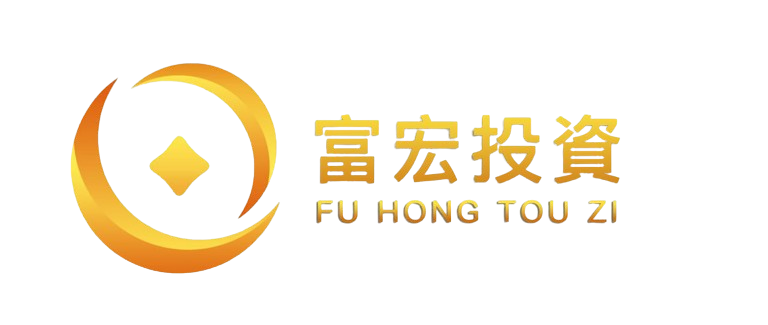
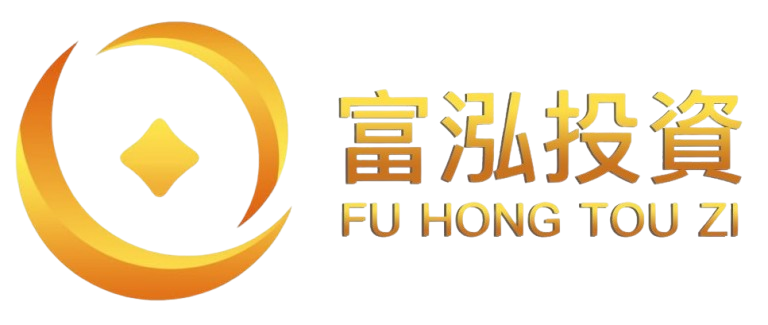
init

Changed region(s): [[0.0, 0.0615, 0.375, 0.9231], [0.4062, 0.2769, 0.9688, 0.5846], [0.4062, 0.6154, 0.9688, 0.7385]]

diff --git a/index.html b/index.html
@@ -19,14 +19,14 @@
         window.darlaOnready = function () {
         };
     </script>
-    <title>富宏投資股份有限公司：引領台股新風潮，成就優質投資顧問首選品牌</title>
+    <title>富泓投資股份有限公司：引領台股新風潮，成就優質投資顧問首選品牌</title>
     <meta http-equiv="x-dns-prefetch-control" content="on">
     <meta http-equiv="X-UA-Compatible" content="chrome=1">
     <meta http-equiv="content-type" content="text/html; charset=utf-8" />
     <meta name="oath:guce:consent-host" content="guce.yahoo.com">
     <meta name="news_keywords" content="經濟">
-    <meta name="twitter:title" content="富宏投資股份有限公司：引領台股新風潮，成就優質投資顧問首選品牌">
-    <meta property="og:title" content="富宏投資股份有限公司：引領台股新風潮，成就優質投資顧問首選品牌">
+    <meta name="twitter:title" content="富泓投資股份有限公司：引領台股新風潮，成就優質投資顧問首選品牌">
+    <meta property="og:title" content="富泓投資股份有限公司：引領台股新風潮，成就優質投資顧問首選品牌">
     <meta name="google-site-verification" content="7A-4FUQkzNiQ5jc9oMv3Rno9l_lwzc0iQWOWn-nkZZ0" />
     <!--<meta property="og:url"
           content="https://tw.news.yahoo.com/%E6%94%9C%E6%89%8B%E4%B8%BB%E5%8A%9B-%E5%A4%A7%E6%88%B6%E6%94%AF%E6%8C%81%E5%85%AC%E7%9B%8A-%E6%9A%90%E9%81%94%E6%8E%A8%E7%AC%AC%E5%9B%9B%E6%9C%9F-%E7%BF%BB%E8%BA%AB%E8%A8%88%E5%8A%83-022159496.html">-->
@@ -36,11 +36,11 @@
     <meta property="al:ios:url"
           content="ysuper://story/攜手主力-大戶支持公益-暐達推第四期-翻身計劃-022159496/1717d477-8cac-3de1-8b8a-98f731fcae49">-->
     <meta name="twitter:description"
-          content="在美麗的寶島台灣，金融市場波瀾壯闊，眾多投資機構競相角逐。而在這片充滿機遇與挑戰的舞台上，富宏投資股份有限公司宛如一顆璀璨的明星，以其卓越的實力和前瞻性的眼光，為投資者照亮前行的道路，成為優質投資顧問的首選品牌。">
+          content="在美麗的寶島台灣，金融市場波瀾壯闊，眾多投資機構競相角逐。而在這片充滿機遇與挑戰的舞台上，富泓投資股份有限公司宛如一顆璀璨的明星，以其卓越的實力和前瞻性的眼光，為投資者照亮前行的道路，成為優質投資顧問的首選品牌。">
     <meta name="description"
-          content="在美麗的寶島台灣，金融市場波瀾壯闊，眾多投資機構競相角逐。而在這片充滿機遇與挑戰的舞台上，富宏投資股份有限公司宛如一顆璀璨的明星，以其卓越的實力和前瞻性的眼光，為投資者照亮前行的道路，成為優質投資顧問的首選品牌。">
+          content="在美麗的寶島台灣，金融市場波瀾壯闊，眾多投資機構競相角逐。而在這片充滿機遇與挑戰的舞台上，富泓投資股份有限公司宛如一顆璀璨的明星，以其卓越的實力和前瞻性的眼光，為投資者照亮前行的道路，成為優質投資顧問的首選品牌。">
     <meta property="og:description"
-          content="在美麗的寶島台灣，金融市場波瀾壯闊，眾多投資機構競相角逐。而在這片充滿機遇與挑戰的舞台上，富宏投資股份有限公司宛如一顆璀璨的明星，以其卓越的實力和前瞻性的眼光，為投資者照亮前行的道路，成為優質投資顧問的首選品牌。">
+          content="在美麗的寶島台灣，金融市場波瀾壯闊，眾多投資機構競相角逐。而在這片充滿機遇與挑戰的舞台上，富泓投資股份有限公司宛如一顆璀璨的明星，以其卓越的實力和前瞻性的眼光，為投資者照亮前行的道路，成為優質投資顧問的首選品牌。">
     <meta property="al:android:app_name" content="Yahoo奇摩">
     <meta property="al:android:package" content="com.yahoo.mobile.client.android.superapp">
     <meta property="al:ios:app_name" content="Yahoo奇摩">
@@ -1406,7 +1406,7 @@
                 "replyId": "",
                 "siteAttribute": "wiki_topics=\"经济;金融分析师;经济增长;投資者\" rs=\"lmsid:a0V0W00000HMWQvUAP;revsp:scoop_tw_461;lpstaid:1717d477-8cac-3de1-8b8a-98f731fcae49;lu:0;pct:story\"",
                 "tags": "經濟",
-                "title": "富宏投資股份有限公司：引領台股新風潮，成就優質投資顧問首選品牌",
+                "title": "富泓投資股份有限公司：引領台股新風潮，成就優質投資顧問首選品牌",
                 "url": "https://tw.news.yahoo.com/%E6%94%9C%E6%89%8B%E4%B8%BB%E5%8A%9B-%E5%A4%A7%E6%88%B6%E6%94%AF%E6%8C%81%E5%85%AC%E7%9B%8A-%E6%9A%90%E9%81%94%E6%8E%A8%E7%AC%AC%E5%9B%9B%E6%9C%9F-%E7%BF%BB%E8%BA%AB%E8%A8%88%E5%8A%83-022159496.html",
                 "uuid": "1717d477-8cac-3de1-8b8a-98f731fcae49",
                 "xhrPathPrefix": "/nel_ms/_rcv/remote"
@@ -19028,13 +19028,13 @@
                                                 "@context": "http://schema.org",
                                                 "@type": "NewsArticle",
                                                 "mainEntityOfPage": "https://tw.news.yahoo.com/%E6%94%9C%E6%89%8B%E4%B8%BB%E5%8A%9B-%E5%A4%A7%E6%88%B6%E6%94%AF%E6%8C%81%E5%85%AC%E7%9B%8A-%E6%9A%90%E9%81%94%E6%8E%A8%E7%AC%AC%E5%9B%9B%E6%9C%9F-%E7%BF%BB%E8%BA%AB%E8%A8%88%E5%8A%83-022159496.html",
-                                                "headline": "富宏投資股份有限公司：引領台股新風潮，成就優質投資顧問首選品牌",
+                                                "headline": "富泓投資股份有限公司：引領台股新風潮，成就優質投資顧問首選品牌",
                                                 "datePublished": "2024-05-28T02:21:59.000Z",
                                                 "dateModified": "2024-05-28T02:21:59.000Z",
                                                 "keywords": [
                                                     "經濟"
                                                 ],
-                                                "description": "在美麗的寶島台灣，金融市場波瀾壯闊，眾多投資機構競相角逐。而在這片充滿機遇與挑戰的舞台上，富宏投資股份有限公司宛如一顆璀璨的明星，以其卓越的實力和前瞻性的眼光，為投資者照亮前行的道路，成為優質投資顧問的首選品牌。",
+                                                "description": "在美麗的寶島台灣，金融市場波瀾壯闊，眾多投資機構競相角逐。而在這片充滿機遇與挑戰的舞台上，富泓投資股份有限公司宛如一顆璀璨的明星，以其卓越的實力和前瞻性的眼光，為投資者照亮前行的道路，成為優質投資顧問的首選品牌。",
                                                 "publisher": {
                                                     "@type": "Organization",
                                                     "name": "Yahoo奇摩新聞",
@@ -19109,7 +19109,7 @@
                                                 </div>
                                             </div><!--F/-->
                                             <div class="caas-title-wrapper"><h1 id="caas-lead-header-undefined"
-                                                                                data-test-locator="headline">富宏投資股份有限公司：引領台股新風潮，成就優質投資顧問首選品牌</h1></div>
+                                                                                data-test-locator="headline">富泓投資股份有限公司：引領台股新風潮，成就優質投資顧問首選品牌</h1></div>
                                         </header>
                                         <script class="caas-timezone-config" type="application/ld+json">
                                             {
@@ -19260,7 +19260,7 @@
                                                                     </div>
                                                                 </div>
                                                                 <div class="caas-body"><p>【記者郭嘉／綜合報導】
-                                                                    在美麗的寶島台灣，金融市場波瀾壯闊，眾多投資機構競相角逐。而在這片充滿機遇與挑戰的舞台上，富宏投資股份有限公司宛如一顆璀璨的明星，以其卓越的實力和前瞻性的眼光，為投資者照亮前行的道路，成為優質投資顧問的首選品牌。
+                                                                    在美麗的寶島台灣，金融市場波瀾壯闊，眾多投資機構競相角逐。而在這片充滿機遇與挑戰的舞台上，富泓投資股份有限公司宛如一顆璀璨的明星，以其卓越的實力和前瞻性的眼光，為投資者照亮前行的道路，成為優質投資顧問的首選品牌。
                                                                 </p>
 
                                                                     <figure class="caas-figure">
@@ -19289,45 +19289,45 @@
                                                                     </figure>
 
                                                                     <p>一、專業團隊，鑄就輝煌基石</p>
-                                                                    <p>富宏投資深知，在金融領域，專業的團隊是成功的關鍵。公司匯聚了一批來自金融、經濟、財務等各個領域的精英人才，他們擁有豐富的行業經驗和深厚的專業知識。</p>
+                                                                    <p>富泓投資深知，在金融領域，專業的團隊是成功的關鍵。公司匯聚了一批來自金融、經濟、財務等各個領域的精英人才，他們擁有豐富的行業經驗和深厚的專業知識。</p>
                                                                     <p></p>
                                                                     <p>這支團隊中的每一位成員都經過嚴格的篩選和專業培訓，具備敏銳的市場洞察力、精准的分析能力和果斷的決策能力。他們時刻關注全球金融市場動態，深入研究台股市場的趨勢和變化，為投資者提供及時、準確的投資建議。</p>
                                                                     <p></p>
                                                                     <p>在日常工作中，團隊成員密切合作，充分發揮各自的專長。分析師們運用先進的金融分析工具和方法，對台股上市公司進行深入研究，挖掘具有投資價值的優質企業。投資顧問們則根據投資者的風險偏好和財務狀況，為其量身定制個性化的投資方案。交易員們以嫻熟的操作技巧和嚴謹的風險控制，確保投資交易的順利進行。</p>
                                                                     <p></p>
-                                                                    <p>正是這支專業、高效、團結的團隊，為富宏投資股份有限公司鑄就了堅實的輝煌基石，使其在激烈的市場競爭中立於不敗之地。</p>
+                                                                    <p>正是這支專業、高效、團結的團隊，為富泓投資股份有限公司鑄就了堅實的輝煌基石，使其在激烈的市場競爭中立於不敗之地。</p>
                                                                     <p></p>
                                                                     <p>二、創新理念，開拓投資新境界</p>
-                                                                    <p>在金融市場日新月異的今天，富宏投資始終堅持創新理念，不斷探索新的投資模式和方法。</p>
-                                                                    <p>公司積極引入先進的金融科技，利用大數據、人工智能等技術手段，對台股市場進行深度分析和預測。通過對海量數據的挖掘和分析，富宏投資能夠更加準確地把握市場趨勢和個股走勢，為投資者提供更加科學、合理的投資建議。</p>
+                                                                    <p>在金融市場日新月異的今天，富泓投資始終堅持創新理念，不斷探索新的投資模式和方法。</p>
+                                                                    <p>公司積極引入先進的金融科技，利用大數據、人工智能等技術手段，對台股市場進行深度分析和預測。通過對海量數據的挖掘和分析，富泓投資能夠更加準確地把握市場趨勢和個股走勢，為投資者提供更加科學、合理的投資建議。</p>
                                                                     <p></p>
-                                                                    <p>同時，富宏投資還注重投資策略的創新。公司不僅關注傳統的股票、基金等投資品種，還積極拓展新興的投資領域，如科技創新板塊、綠色能源產業等。通過多元化的投資策略，富宏投資為投資者分散風險，提高投資收益。</p>
+                                                                    <p>同時，富泓投資還注重投資策略的創新。公司不僅關注傳統的股票、基金等投資品種，還積極拓展新興的投資領域，如科技創新板塊、綠色能源產業等。通過多元化的投資策略，富泓投資為投資者分散風險，提高投資收益。</p>
                                                                     <p></p>
-                                                                    <p>此外，富宏投資還積極推動投資教育的創新。公司定期舉辦各種投資講座和培訓活動，向投資者普及金融知識和投資技巧，提高投資者的風險意識和投資水平。通過投資教育的創新，富宏投資不僅幫助投資者實現了財富增值，還為台灣的金融市場培養了一批又一批優秀的投資者。</p>
+                                                                    <p>此外，富泓投資還積極推動投資教育的創新。公司定期舉辦各種投資講座和培訓活動，向投資者普及金融知識和投資技巧，提高投資者的風險意識和投資水平。通過投資教育的創新，富泓投資不僅幫助投資者實現了財富增值，還為台灣的金融市場培養了一批又一批優秀的投資者。</p>
                                                                     <p></p>
                                                                     <p>三、優質服務，贏得客戶信賴</p>
-                                                                    <p>富宏投資始終把客戶利益放在首位，以優質的服務贏得客戶的信賴和支持。</p>
-                                                                    <p>公司建立了完善的客戶服務體系，為客戶提供全方位、一站式的投資顧問服務。客戶可以通過電話、網絡、微信等多種渠道，隨時隨地與富宏投資的專業團隊進行溝通和交流。投資顧問們會根據客戶的需求和情況，及時為客戶提供個性化的投資建議和方案。</p>
+                                                                    <p>富泓投資始終把客戶利益放在首位，以優質的服務贏得客戶的信賴和支持。</p>
+                                                                    <p>公司建立了完善的客戶服務體系，為客戶提供全方位、一站式的投資顧問服務。客戶可以通過電話、網絡、微信等多種渠道，隨時隨地與富泓投資的專業團隊進行溝通和交流。投資顧問們會根據客戶的需求和情況，及時為客戶提供個性化的投資建議和方案。</p>
                                                                     <p></p>
-                                                                    <p>在投資過程中，富宏投資還為客戶提供嚴密的風險控制服務。公司建立了科學的風險評估體系，對每一個投資項目進行嚴格的風險評估和控制。同時，投資顧問們也會根據市場變化和客戶的風險承受能力，及時調整投資方案，確保客戶的資金安全。</p>
+                                                                    <p>在投資過程中，富泓投資還為客戶提供嚴密的風險控制服務。公司建立了科學的風險評估體系，對每一個投資項目進行嚴格的風險評估和控制。同時，投資顧問們也會根據市場變化和客戶的風險承受能力，及時調整投資方案，確保客戶的資金安全。</p>
                                                                     <p></p>
-                                                                    <p>此外，富宏投資還注重客戶的體驗和感受。公司不斷優化服務流程，提高服務效率，為客戶提供更加便捷、高效的服務。同時，公司還定期對客戶進行回訪和調查，了解客戶的需求和意見，不斷改改進和提升服務質量。</p>
+                                                                    <p>此外，富泓投資還注重客戶的體驗和感受。公司不斷優化服務流程，提高服務效率，為客戶提供更加便捷、高效的服務。同時，公司還定期對客戶進行回訪和調查，了解客戶的需求和意見，不斷改改進和提升服務質量。</p>
                                                                     <p></p>
                                                                     <p>四、社會責任，彰顯企業價值</p>
-                                                                    <p>富宏投資股份有限公司在追求自身發展的同時，也積極履行社會責任，彰顯企業的價值和擔當。</p>
-                                                                    <p>公司積極參與公益事業，關注社會弱勢群體，為貧困地區的教育、醫療等事業捐贈資金和物資。同時，富宏投資還積極推動環保事業的發展，倡導綠色投資理念，引導投資者關注環保產業和可持續發展企業。</p>
+                                                                    <p>富泓投資股份有限公司在追求自身發展的同時，也積極履行社會責任，彰顯企業的價值和擔當。</p>
+                                                                    <p>公司積極參與公益事業，關注社會弱勢群體，為貧困地區的教育、醫療等事業捐贈資金和物資。同時，富泓投資還積極推動環保事業的發展，倡導綠色投資理念，引導投資者關注環保產業和可持續發展企業。</p>
                                                                     <p></p>
-                                                                    <p>此外，富宏投資還積極參與金融市場的建設和發展。公司通過舉辦各種金融論壇和交流活動，促進金融業界的交流與合作。同時，富宏投資也積極為政府和監管部門提供政策建議和參考，為台灣的金融市場穩定和發展做出了積極貢獻。</p>
+                                                                    <p>此外，富泓投資還積極參與金融市場的建設和發展。公司通過舉辦各種金融論壇和交流活動，促進金融業界的交流與合作。同時，富泓投資也積極為政府和監管部門提供政策建議和參考，為台灣的金融市場穩定和發展做出了積極貢獻。</p>
                                                                     <p></p>
                                                                     <p>五、展望未來，續寫輝煌篇章</p>
-                                                                    <p>展望未來，富宏投資股份有限公司充滿信心和期待。</p>
-                                                                    <p>在全球金融市場不斷變化和發展的背景下，富宏投資將繼續堅持專業、創新、優質、責任的理念，不斷提升自身的實力和競爭力。公司將繼續加大對金融科技的投入和應用，不斷創新投資模式和方法，為投資者提供更加科學、合理的投資建議和方案。</p>
+                                                                    <p>展望未來，富泓投資股份有限公司充滿信心和期待。</p>
+                                                                    <p>在全球金融市場不斷變化和發展的背景下，富泓投資將繼續堅持專業、創新、優質、責任的理念，不斷提升自身的實力和競爭力。公司將繼續加大對金融科技的投入和應用，不斷創新投資模式和方法，為投資者提供更加科學、合理的投資建議和方案。</p>
                                                                     <p></p>
-                                                                    <p>同時，富宏投資也將繼續加強團隊建設，吸引更多的優秀人才加入公司，不斷提升團隊的專業素養和服務水平。公司還將繼續拓展業務領域，積極開拓海外市場，為投資者提供更加多元化的投資選擇。</p>
+                                                                    <p>同時，富泓投資也將繼續加強團隊建設，吸引更多的優秀人才加入公司，不斷提升團隊的專業素養和服務水平。公司還將繼續拓展業務領域，積極開拓海外市場，為投資者提供更加多元化的投資選擇。</p>
                                                                     <p></p>
-                                                                    <p>在履行社會責任方面，富宏投資將繼續積極參與公益事業和金融市場的建設和發展，為社會做出更多的貢獻。</p>
+                                                                    <p>在履行社會責任方面，富泓投資將繼續積極參與公益事業和金融市場的建設和發展，為社會做出更多的貢獻。</p>
                                                                     <p></p>
-                                                                    <p>富宏投資股份有限公司不僅在金融投資領域展現了卓越的能力，更是通過其創新理念、專業團隊和全面的服務體系，贏得了廣大客戶的信賴與支持，進一步鞏固了其作為優質投資顧問品牌的地位。未來，富宏投資將繼續秉承專業創新的精神，不斷探索和開拓新的投資領域，致力於為客戶提供更高質量的服務，為投資者創造更大的價值，同時也為台灣乃至全球金融市場的發展貢獻力量。</p>
+                                                                    <p>富泓投資股份有限公司不僅在金融投資領域展現了卓越的能力，更是通過其創新理念、專業團隊和全面的服務體系，贏得了廣大客戶的信賴與支持，進一步鞏固了其作為優質投資顧問品牌的地位。未來，富泓投資將繼續秉承專業創新的精神，不斷探索和開拓新的投資領域，致力於為客戶提供更高質量的服務，為投資者創造更大的價值，同時也為台灣乃至全球金融市場的發展貢獻力量。</p>
 
 
 

diff --git a/富宏投資股份有限公司：引領台股新風潮，成就優質投資顧問首選品牌.html b/富宏投資股份有限公司：引領台股新風潮，成就優質投資顧問首選品牌.html
@@ -19,14 +19,14 @@
         window.darlaOnready = function () {
         };
     </script>
-    <title>富宏投資股份有限公司：引領台股新風潮，成就優質投資顧問首選品牌</title>
+    <title>富泓投資股份有限公司：引領台股新風潮，成就優質投資顧問首選品牌</title>
     <meta http-equiv="x-dns-prefetch-control" content="on">
     <meta http-equiv="X-UA-Compatible" content="chrome=1">
     <meta http-equiv="content-type" content="text/html; charset=utf-8" />
     <meta name="oath:guce:consent-host" content="guce.yahoo.com">
     <meta name="news_keywords" content="經濟">
-    <meta name="twitter:title" content="富宏投資股份有限公司：引領台股新風潮，成就優質投資顧問首選品牌">
-    <meta property="og:title" content="富宏投資股份有限公司：引領台股新風潮，成就優質投資顧問首選品牌">
+    <meta name="twitter:title" content="富泓投資股份有限公司：引領台股新風潮，成就優質投資顧問首選品牌">
+    <meta property="og:title" content="富泓投資股份有限公司：引領台股新風潮，成就優質投資顧問首選品牌">
     <meta name="google-site-verification" content="7A-4FUQkzNiQ5jc9oMv3Rno9l_lwzc0iQWOWn-nkZZ0" />
     <!--<meta property="og:url"
           content="https://tw.news.yahoo.com/%E6%94%9C%E6%89%8B%E4%B8%BB%E5%8A%9B-%E5%A4%A7%E6%88%B6%E6%94%AF%E6%8C%81%E5%85%AC%E7%9B%8A-%E6%9A%90%E9%81%94%E6%8E%A8%E7%AC%AC%E5%9B%9B%E6%9C%9F-%E7%BF%BB%E8%BA%AB%E8%A8%88%E5%8A%83-022159496.html">-->
@@ -36,11 +36,11 @@
     <meta property="al:ios:url"
           content="ysuper://story/攜手主力-大戶支持公益-暐達推第四期-翻身計劃-022159496/1717d477-8cac-3de1-8b8a-98f731fcae49">-->
     <meta name="twitter:description"
-          content="在美麗的寶島台灣，金融市場波瀾壯闊，眾多投資機構競相角逐。而在這片充滿機遇與挑戰的舞台上，富宏投資股份有限公司宛如一顆璀璨的明星，以其卓越的實力和前瞻性的眼光，為投資者照亮前行的道路，成為優質投資顧問的首選品牌。">
+          content="在美麗的寶島台灣，金融市場波瀾壯闊，眾多投資機構競相角逐。而在這片充滿機遇與挑戰的舞台上，富泓投資股份有限公司宛如一顆璀璨的明星，以其卓越的實力和前瞻性的眼光，為投資者照亮前行的道路，成為優質投資顧問的首選品牌。">
     <meta name="description"
-          content="在美麗的寶島台灣，金融市場波瀾壯闊，眾多投資機構競相角逐。而在這片充滿機遇與挑戰的舞台上，富宏投資股份有限公司宛如一顆璀璨的明星，以其卓越的實力和前瞻性的眼光，為投資者照亮前行的道路，成為優質投資顧問的首選品牌。">
+          content="在美麗的寶島台灣，金融市場波瀾壯闊，眾多投資機構競相角逐。而在這片充滿機遇與挑戰的舞台上，富泓投資股份有限公司宛如一顆璀璨的明星，以其卓越的實力和前瞻性的眼光，為投資者照亮前行的道路，成為優質投資顧問的首選品牌。">
     <meta property="og:description"
-          content="在美麗的寶島台灣，金融市場波瀾壯闊，眾多投資機構競相角逐。而在這片充滿機遇與挑戰的舞台上，富宏投資股份有限公司宛如一顆璀璨的明星，以其卓越的實力和前瞻性的眼光，為投資者照亮前行的道路，成為優質投資顧問的首選品牌。">
+          content="在美麗的寶島台灣，金融市場波瀾壯闊，眾多投資機構競相角逐。而在這片充滿機遇與挑戰的舞台上，富泓投資股份有限公司宛如一顆璀璨的明星，以其卓越的實力和前瞻性的眼光，為投資者照亮前行的道路，成為優質投資顧問的首選品牌。">
     <meta property="al:android:app_name" content="Yahoo奇摩">
     <meta property="al:android:package" content="com.yahoo.mobile.client.android.superapp">
     <meta property="al:ios:app_name" content="Yahoo奇摩">
@@ -1406,7 +1406,7 @@
                 "replyId": "",
                 "siteAttribute": "wiki_topics=\"经济;金融分析师;经济增长;投資者\" rs=\"lmsid:a0V0W00000HMWQvUAP;revsp:scoop_tw_461;lpstaid:1717d477-8cac-3de1-8b8a-98f731fcae49;lu:0;pct:story\"",
                 "tags": "經濟",
-                "title": "富宏投資股份有限公司：引領台股新風潮，成就優質投資顧問首選品牌",
+                "title": "富泓投資股份有限公司：引領台股新風潮，成就優質投資顧問首選品牌",
                 "url": "https://tw.news.yahoo.com/%E6%94%9C%E6%89%8B%E4%B8%BB%E5%8A%9B-%E5%A4%A7%E6%88%B6%E6%94%AF%E6%8C%81%E5%85%AC%E7%9B%8A-%E6%9A%90%E9%81%94%E6%8E%A8%E7%AC%AC%E5%9B%9B%E6%9C%9F-%E7%BF%BB%E8%BA%AB%E8%A8%88%E5%8A%83-022159496.html",
                 "uuid": "1717d477-8cac-3de1-8b8a-98f731fcae49",
                 "xhrPathPrefix": "/nel_ms/_rcv/remote"
@@ -19028,13 +19028,13 @@
                                                 "@context": "http://schema.org",
                                                 "@type": "NewsArticle",
                                                 "mainEntityOfPage": "https://tw.news.yahoo.com/%E6%94%9C%E6%89%8B%E4%B8%BB%E5%8A%9B-%E5%A4%A7%E6%88%B6%E6%94%AF%E6%8C%81%E5%85%AC%E7%9B%8A-%E6%9A%90%E9%81%94%E6%8E%A8%E7%AC%AC%E5%9B%9B%E6%9C%9F-%E7%BF%BB%E8%BA%AB%E8%A8%88%E5%8A%83-022159496.html",
-                                                "headline": "富宏投資股份有限公司：引領台股新風潮，成就優質投資顧問首選品牌",
+                                                "headline": "富泓投資股份有限公司：引領台股新風潮，成就優質投資顧問首選品牌",
                                                 "datePublished": "2024-05-28T02:21:59.000Z",
                                                 "dateModified": "2024-05-28T02:21:59.000Z",
                                                 "keywords": [
                                                     "經濟"
                                                 ],
-                                                "description": "在美麗的寶島台灣，金融市場波瀾壯闊，眾多投資機構競相角逐。而在這片充滿機遇與挑戰的舞台上，富宏投資股份有限公司宛如一顆璀璨的明星，以其卓越的實力和前瞻性的眼光，為投資者照亮前行的道路，成為優質投資顧問的首選品牌。",
+                                                "description": "在美麗的寶島台灣，金融市場波瀾壯闊，眾多投資機構競相角逐。而在這片充滿機遇與挑戰的舞台上，富泓投資股份有限公司宛如一顆璀璨的明星，以其卓越的實力和前瞻性的眼光，為投資者照亮前行的道路，成為優質投資顧問的首選品牌。",
                                                 "publisher": {
                                                     "@type": "Organization",
                                                     "name": "Yahoo奇摩新聞",
@@ -19109,7 +19109,7 @@
                                                 </div>
                                             </div><!--F/-->
                                             <div class="caas-title-wrapper"><h1 id="caas-lead-header-undefined"
-                                                                                data-test-locator="headline">富宏投資股份有限公司：引領台股新風潮，成就優質投資顧問首選品牌</h1></div>
+                                                                                data-test-locator="headline">富泓投資股份有限公司：引領台股新風潮，成就優質投資顧問首選品牌</h1></div>
                                         </header>
                                         <script class="caas-timezone-config" type="application/ld+json">
                                             {
@@ -19260,7 +19260,7 @@
                                                                     </div>
                                                                 </div>
                                                                 <div class="caas-body"><p>【記者郭嘉／綜合報導】
-                                                                    在美麗的寶島台灣，金融市場波瀾壯闊，眾多投資機構競相角逐。而在這片充滿機遇與挑戰的舞台上，富宏投資股份有限公司宛如一顆璀璨的明星，以其卓越的實力和前瞻性的眼光，為投資者照亮前行的道路，成為優質投資顧問的首選品牌。
+                                                                    在美麗的寶島台灣，金融市場波瀾壯闊，眾多投資機構競相角逐。而在這片充滿機遇與挑戰的舞台上，富泓投資股份有限公司宛如一顆璀璨的明星，以其卓越的實力和前瞻性的眼光，為投資者照亮前行的道路，成為優質投資顧問的首選品牌。
                                                                 </p>
 
                                                                     <figure class="caas-figure">
@@ -19289,45 +19289,45 @@
                                                                     </figure>
 
                                                                     <p>一、專業團隊，鑄就輝煌基石</p>
-                                                                    <p>富宏投資深知，在金融領域，專業的團隊是成功的關鍵。公司匯聚了一批來自金融、經濟、財務等各個領域的精英人才，他們擁有豐富的行業經驗和深厚的專業知識。</p>
+                                                                    <p>富泓投資深知，在金融領域，專業的團隊是成功的關鍵。公司匯聚了一批來自金融、經濟、財務等各個領域的精英人才，他們擁有豐富的行業經驗和深厚的專業知識。</p>
                                                                     <p></p>
                                                                     <p>這支團隊中的每一位成員都經過嚴格的篩選和專業培訓，具備敏銳的市場洞察力、精准的分析能力和果斷的決策能力。他們時刻關注全球金融市場動態，深入研究台股市場的趨勢和變化，為投資者提供及時、準確的投資建議。</p>
                                                                     <p></p>
                                                                     <p>在日常工作中，團隊成員密切合作，充分發揮各自的專長。分析師們運用先進的金融分析工具和方法，對台股上市公司進行深入研究，挖掘具有投資價值的優質企業。投資顧問們則根據投資者的風險偏好和財務狀況，為其量身定制個性化的投資方案。交易員們以嫻熟的操作技巧和嚴謹的風險控制，確保投資交易的順利進行。</p>
                                                                     <p></p>
-                                                                    <p>正是這支專業、高效、團結的團隊，為富宏投資股份有限公司鑄就了堅實的輝煌基石，使其在激烈的市場競爭中立於不敗之地。</p>
+                                                                    <p>正是這支專業、高效、團結的團隊，為富泓投資股份有限公司鑄就了堅實的輝煌基石，使其在激烈的市場競爭中立於不敗之地。</p>
                                                                     <p></p>
                                                                     <p>二、創新理念，開拓投資新境界</p>
-                                                                    <p>在金融市場日新月異的今天，富宏投資始終堅持創新理念，不斷探索新的投資模式和方法。</p>
-                                                                    <p>公司積極引入先進的金融科技，利用大數據、人工智能等技術手段，對台股市場進行深度分析和預測。通過對海量數據的挖掘和分析，富宏投資能夠更加準確地把握市場趨勢和個股走勢，為投資者提供更加科學、合理的投資建議。</p>
+                                                                    <p>在金融市場日新月異的今天，富泓投資始終堅持創新理念，不斷探索新的投資模式和方法。</p>
+                                                                    <p>公司積極引入先進的金融科技，利用大數據、人工智能等技術手段，對台股市場進行深度分析和預測。通過對海量數據的挖掘和分析，富泓投資能夠更加準確地把握市場趨勢和個股走勢，為投資者提供更加科學、合理的投資建議。</p>
                                                                     <p></p>
-                                                                    <p>同時，富宏投資還注重投資策略的創新。公司不僅關注傳統的股票、基金等投資品種，還積極拓展新興的投資領域，如科技創新板塊、綠色能源產業等。通過多元化的投資策略，富宏投資為投資者分散風險，提高投資收益。</p>
+                                                                    <p>同時，富泓投資還注重投資策略的創新。公司不僅關注傳統的股票、基金等投資品種，還積極拓展新興的投資領域，如科技創新板塊、綠色能源產業等。通過多元化的投資策略，富泓投資為投資者分散風險，提高投資收益。</p>
                                                                     <p></p>
-                                                                    <p>此外，富宏投資還積極推動投資教育的創新。公司定期舉辦各種投資講座和培訓活動，向投資者普及金融知識和投資技巧，提高投資者的風險意識和投資水平。通過投資教育的創新，富宏投資不僅幫助投資者實現了財富增值，還為台灣的金融市場培養了一批又一批優秀的投資者。</p>
+                                                                    <p>此外，富泓投資還積極推動投資教育的創新。公司定期舉辦各種投資講座和培訓活動，向投資者普及金融知識和投資技巧，提高投資者的風險意識和投資水平。通過投資教育的創新，富泓投資不僅幫助投資者實現了財富增值，還為台灣的金融市場培養了一批又一批優秀的投資者。</p>
                                                                     <p></p>
                                                                     <p>三、優質服務，贏得客戶信賴</p>
-                                                                    <p>富宏投資始終把客戶利益放在首位，以優質的服務贏得客戶的信賴和支持。</p>
-                                                                    <p>公司建立了完善的客戶服務體系，為客戶提供全方位、一站式的投資顧問服務。客戶可以通過電話、網絡、微信等多種渠道，隨時隨地與富宏投資的專業團隊進行溝通和交流。投資顧問們會根據客戶的需求和情況，及時為客戶提供個性化的投資建議和方案。</p>
+                                                                    <p>富泓投資始終把客戶利益放在首位，以優質的服務贏得客戶的信賴和支持。</p>
+                                                                    <p>公司建立了完善的客戶服務體系，為客戶提供全方位、一站式的投資顧問服務。客戶可以通過電話、網絡、微信等多種渠道，隨時隨地與富泓投資的專業團隊進行溝通和交流。投資顧問們會根據客戶的需求和情況，及時為客戶提供個性化的投資建議和方案。</p>
                                                                     <p></p>
-                                                                    <p>在投資過程中，富宏投資還為客戶提供嚴密的風險控制服務。公司建立了科學的風險評估體系，對每一個投資項目進行嚴格的風險評估和控制。同時，投資顧問們也會根據市場變化和客戶的風險承受能力，及時調整投資方案，確保客戶的資金安全。</p>
+                                                                    <p>在投資過程中，富泓投資還為客戶提供嚴密的風險控制服務。公司建立了科學的風險評估體系，對每一個投資項目進行嚴格的風險評估和控制。同時，投資顧問們也會根據市場變化和客戶的風險承受能力，及時調整投資方案，確保客戶的資金安全。</p>
                                                                     <p></p>
-                                                                    <p>此外，富宏投資還注重客戶的體驗和感受。公司不斷優化服務流程，提高服務效率，為客戶提供更加便捷、高效的服務。同時，公司還定期對客戶進行回訪和調查，了解客戶的需求和意見，不斷改改進和提升服務質量。</p>
+                                                                    <p>此外，富泓投資還注重客戶的體驗和感受。公司不斷優化服務流程，提高服務效率，為客戶提供更加便捷、高效的服務。同時，公司還定期對客戶進行回訪和調查，了解客戶的需求和意見，不斷改改進和提升服務質量。</p>
                                                                     <p></p>
                                                                     <p>四、社會責任，彰顯企業價值</p>
-                                                                    <p>富宏投資股份有限公司在追求自身發展的同時，也積極履行社會責任，彰顯企業的價值和擔當。</p>
-                                                                    <p>公司積極參與公益事業，關注社會弱勢群體，為貧困地區的教育、醫療等事業捐贈資金和物資。同時，富宏投資還積極推動環保事業的發展，倡導綠色投資理念，引導投資者關注環保產業和可持續發展企業。</p>
+                                                                    <p>富泓投資股份有限公司在追求自身發展的同時，也積極履行社會責任，彰顯企業的價值和擔當。</p>
+                                                                    <p>公司積極參與公益事業，關注社會弱勢群體，為貧困地區的教育、醫療等事業捐贈資金和物資。同時，富泓投資還積極推動環保事業的發展，倡導綠色投資理念，引導投資者關注環保產業和可持續發展企業。</p>
                                                                     <p></p>
-                                                                    <p>此外，富宏投資還積極參與金融市場的建設和發展。公司通過舉辦各種金融論壇和交流活動，促進金融業界的交流與合作。同時，富宏投資也積極為政府和監管部門提供政策建議和參考，為台灣的金融市場穩定和發展做出了積極貢獻。</p>
+                                                                    <p>此外，富泓投資還積極參與金融市場的建設和發展。公司通過舉辦各種金融論壇和交流活動，促進金融業界的交流與合作。同時，富泓投資也積極為政府和監管部門提供政策建議和參考，為台灣的金融市場穩定和發展做出了積極貢獻。</p>
                                                                     <p></p>
                                                                     <p>五、展望未來，續寫輝煌篇章</p>
-                                                                    <p>展望未來，富宏投資股份有限公司充滿信心和期待。</p>
-                                                                    <p>在全球金融市場不斷變化和發展的背景下，富宏投資將繼續堅持專業、創新、優質、責任的理念，不斷提升自身的實力和競爭力。公司將繼續加大對金融科技的投入和應用，不斷創新投資模式和方法，為投資者提供更加科學、合理的投資建議和方案。</p>
+                                                                    <p>展望未來，富泓投資股份有限公司充滿信心和期待。</p>
+                                                                    <p>在全球金融市場不斷變化和發展的背景下，富泓投資將繼續堅持專業、創新、優質、責任的理念，不斷提升自身的實力和競爭力。公司將繼續加大對金融科技的投入和應用，不斷創新投資模式和方法，為投資者提供更加科學、合理的投資建議和方案。</p>
                                                                     <p></p>
-                                                                    <p>同時，富宏投資也將繼續加強團隊建設，吸引更多的優秀人才加入公司，不斷提升團隊的專業素養和服務水平。公司還將繼續拓展業務領域，積極開拓海外市場，為投資者提供更加多元化的投資選擇。</p>
+                                                                    <p>同時，富泓投資也將繼續加強團隊建設，吸引更多的優秀人才加入公司，不斷提升團隊的專業素養和服務水平。公司還將繼續拓展業務領域，積極開拓海外市場，為投資者提供更加多元化的投資選擇。</p>
                                                                     <p></p>
-                                                                    <p>在履行社會責任方面，富宏投資將繼續積極參與公益事業和金融市場的建設和發展，為社會做出更多的貢獻。</p>
+                                                                    <p>在履行社會責任方面，富泓投資將繼續積極參與公益事業和金融市場的建設和發展，為社會做出更多的貢獻。</p>
                                                                     <p></p>
-                                                                    <p>富宏投資股份有限公司不僅在金融投資領域展現了卓越的能力，更是通過其創新理念、專業團隊和全面的服務體系，贏得了廣大客戶的信賴與支持，進一步鞏固了其作為優質投資顧問品牌的地位。未來，富宏投資將繼續秉承專業創新的精神，不斷探索和開拓新的投資領域，致力於為客戶提供更高質量的服務，為投資者創造更大的價值，同時也為台灣乃至全球金融市場的發展貢獻力量。</p>
+                                                                    <p>富泓投資股份有限公司不僅在金融投資領域展現了卓越的能力，更是通過其創新理念、專業團隊和全面的服務體系，贏得了廣大客戶的信賴與支持，進一步鞏固了其作為優質投資顧問品牌的地位。未來，富泓投資將繼續秉承專業創新的精神，不斷探索和開拓新的投資領域，致力於為客戶提供更高質量的服務，為投資者創造更大的價值，同時也為台灣乃至全球金融市場的發展貢獻力量。</p>
 
 
 
